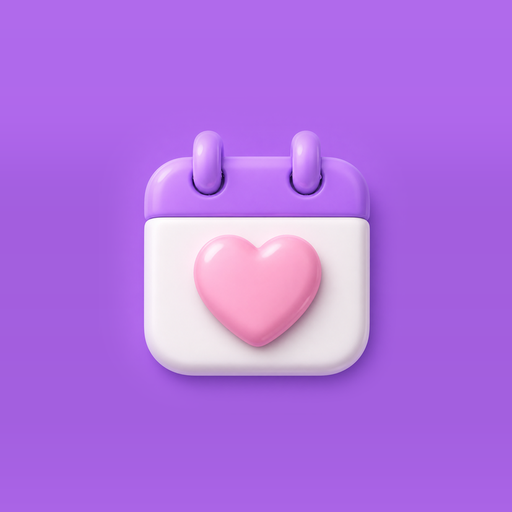
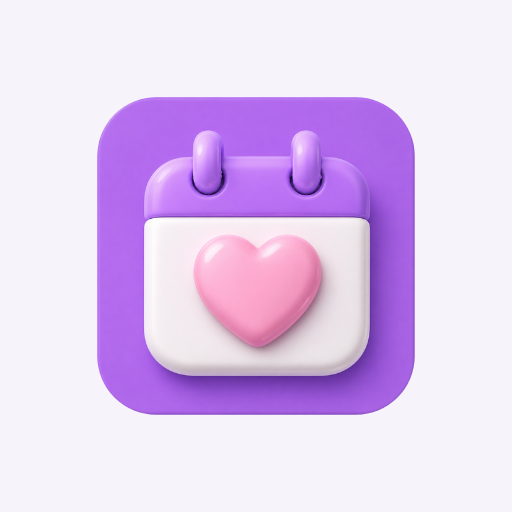
fix(ui): 글자 배율 고정 · 4대 탭·토스트 한 줄 고정 · 앱 아이콘 안전영역(62%) — 사장님 ORDER_UI_FIX 배포
- html,body text-size-adjust 100%, 4대 탭 nowrap·12px·자간 -0.04em, 공통 토스트·로그인 토스트 nowrap/ellipsis/pointer-events:none (360·320px 에서 한 줄 확인)
- momcal-appicon-maskable.png: 그림을 62% 로 줄이고 #F6F3FA 여백, manifest 에 ?v=2(캐시 갱신)
- 안드 앱: 적응형 foreground 원본(ic_launcher_foreground_src.png, 62%)·배경색 #F6F3FA — 새 앱 빌드·스토어 재등록 때 반영
- 로그인 뒤 찜 합침은 서버 wish_list/_wish_devices 가 이 기기를 계정에 묶어 합쳐 돌려줌(코드 확인), 변경 없음
- 배포 전 live_smoke --local 49/49. 맘캘봇·영상 온보딩은 test.html 에만 있고 index 에는 포함하지 않음

diff --git a/index.html b/index.html
@@ -7867,5 +7867,13 @@ if(document.readyState==='loading') document.addEventListener('DOMContentLoaded'
 })();
 </script>
 
+<style id="mc-uifix">
+/* 2026-11-02 사장님 실기 제보 — 폰 글자 크기 설정이 웹뷰·PWA 글자에 섞여 커지던 것 / 4대 탭·토스트가 두 줄로 꺾이던 것 */
+html,body{-webkit-text-size-adjust:100%!important;text-size-adjust:100%!important}
+.content-seg .cseg{white-space:nowrap!important;font-size:12px!important;letter-spacing:-.04em!important;padding:8px 1px!important}
+#mcToastBox{white-space:nowrap!important;max-width:90%!important;pointer-events:none}
+#mcToastBox>div{overflow:hidden;text-overflow:ellipsis}
+body>div[style*="#2b2340"],body>div[style*="rgb(43, 35, 64)"]{width:max-content!important;white-space:nowrap!important;max-width:90%!important;overflow:hidden;text-overflow:ellipsis;pointer-events:none!important}   /* 로그인 뒤 「💜 ○○님, 반가워요!」 — 브라우저가 인라인 색을 rgb() 로 바꿔 저장하므로 두 꼴 다 */
+</style>
 </body>
 </html>

diff --git a/test.html b/test.html
@@ -8357,5 +8357,13 @@ if(document.readyState==='loading') document.addEventListener('DOMContentLoaded'
 })();
 </script>
 
+<style id="mc-uifix">
+/* 2026-11-02 사장님 실기 제보 — 폰 글자 크기 설정이 웹뷰·PWA 글자에 섞여 커지던 것 / 4대 탭·토스트가 두 줄로 꺾이던 것 */
+html,body{-webkit-text-size-adjust:100%!important;text-size-adjust:100%!important}
+.content-seg .cseg{white-space:nowrap!important;font-size:12px!important;letter-spacing:-.04em!important;padding:8px 1px!important}
+#mcToastBox{white-space:nowrap!important;max-width:90%!important;pointer-events:none}
+#mcToastBox>div{overflow:hidden;text-overflow:ellipsis}
+body>div[style*="#2b2340"],body>div[style*="rgb(43, 35, 64)"]{width:max-content!important;white-space:nowrap!important;max-width:90%!important;overflow:hidden;text-overflow:ellipsis;pointer-events:none!important}   /* 로그인 뒤 「💜 ○○님, 반가워요!」 — 브라우저가 인라인 색을 rgb() 로 바꿔 저장하므로 두 꼴 다 */
+</style>
 </body>
 </html>
